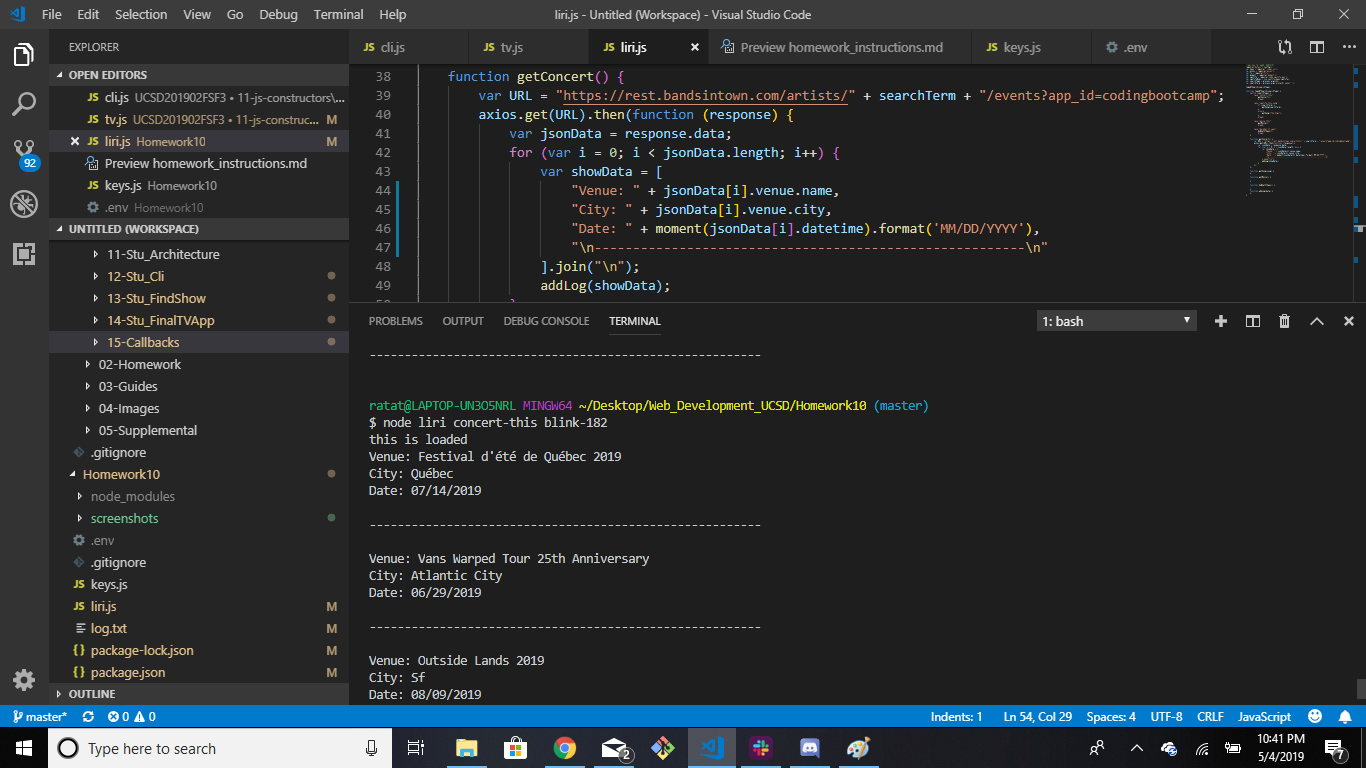
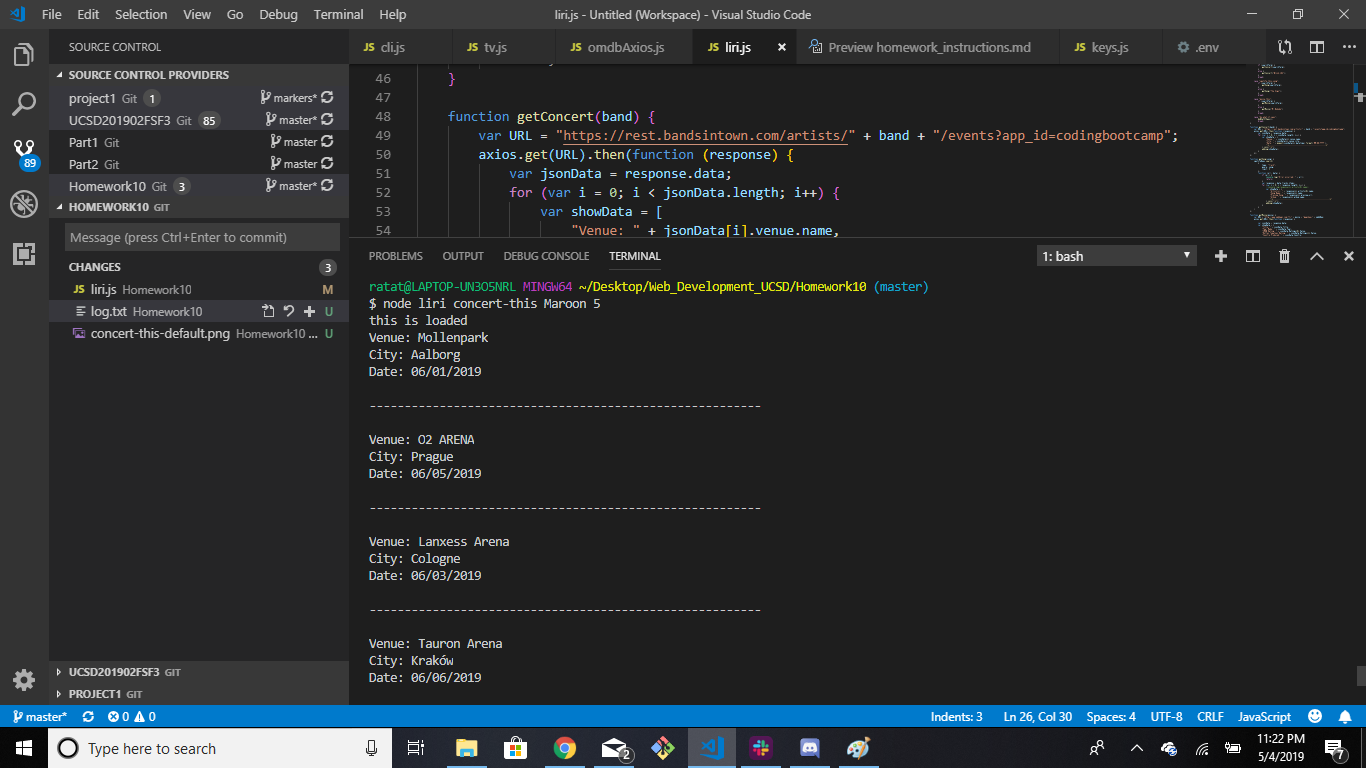
screenshots provided

diff --git a/liri.js b/liri.js
@@ -15,10 +15,10 @@ function typeOfSearch(searchType) {
     switch (searchType) {
         case "concert-this":
             if (searchTerm) {
-                getConcert();
+                getConcert(searchTerm);
             }
             else {
-                getConcert("Axis of Awesome")
+                getConcert("Blink-182");
             }
             break;
 
